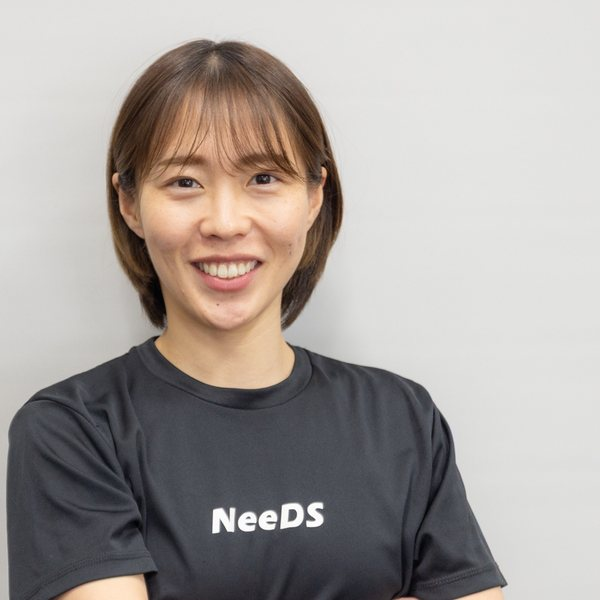
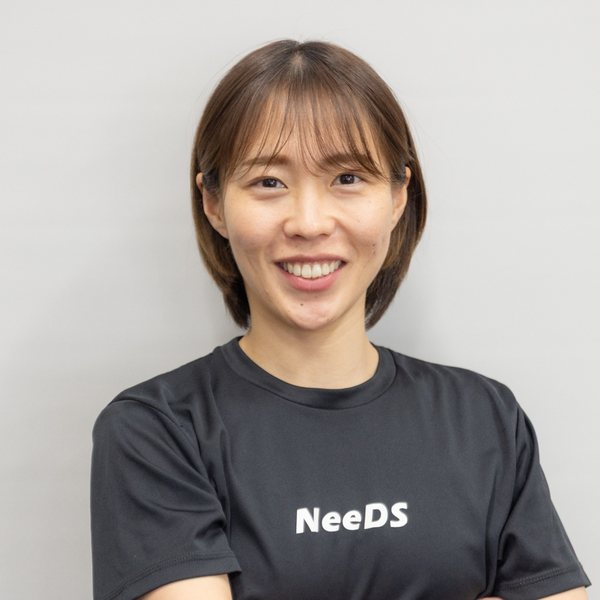
文言・写真・料金ストリップの調整
- 「安心してください」から「息が上がるような運動から始めることは
  ありません。」を削除（「初心者の方こそ大歓迎です。」は残す）
- 資格の箇条書きに「健康運動指導士」を追加（3つに）
- 「あなただけの」の後で改行し、「身体づくり計画をプレゼント！」を1行に
- トレーナー3名の写真を、顔が枠の中央に来るようトリミングし直し
  （成清トレーナーのずれを修正、塩崎トレーナーも微調整）
- 「通われています。」に黄色のハイライトを追加
- 料金ストリップ：スマホを2列2行にして、値を12.5→16px、
  「0円」を19→23px、ラベルを9.5→11pxに拡大
- ヒーローのバッジ：文言を「プロが／あなたの身体を／サポート」に短縮し、
  円を小さく（92px／PC112px）、文字を8→11px（PC 9.5→13px）に拡大
- ファーストビュー下：「神戸・六甲道｜」→「神戸ジム｜」

既存CSSブロックはバイト単位で同一を維持。

Claude-Session: https://claude.ai/code/session_01Re5nFwUBRuEXj6DTQGbL92

diff --git a/women-v2/index.html b/women-v2/index.html
@@ -587,10 +587,10 @@ body{ background:var(--paper-3); }
 .hero2-media{ position:relative; background:#e3ded6; }
 .hero2-photo{ width:100%; display:block; aspect-ratio:16/9; object-fit:cover; object-position:20% 50%; }
 .hero2-badge{
-  position:absolute; left:8px; top:8px; width:96px; height:96px; border-radius:50%;
+  position:absolute; left:8px; top:8px; width:92px; height:92px; border-radius:50%;
   background:linear-gradient(140deg, #57c4ef 0%, #1a80c4 100%);
   color:#fff; display:flex; align-items:center; justify-content:center;
-  text-align:center; padding:7px; font-size:8px; font-weight:500; line-height:1.55; letter-spacing:-.03em;
+  text-align:center; padding:6px; font-size:11px; font-weight:500; line-height:1.5; letter-spacing:-.02em;
   box-shadow:0 5px 16px rgba(10,44,66,.22);
 }
 .hero2-body{ padding:12px 16px 18px; }
@@ -623,7 +623,7 @@ body{ background:var(--paper-3); }
   .hero2-body{ order:1; display:flex; flex-direction:column; justify-content:center; padding:34px 34px 34px 22px; }
   .hero2-photo{ height:100%; aspect-ratio:auto; min-height:460px; }
   .hero2-title{ font-size:38px; }
-  .hero2-badge{ width:126px; height:126px; font-size:9.5px; padding:11px; left:16px; top:16px; line-height:1.65; }
+  .hero2-badge{ width:112px; height:112px; font-size:13px; padding:9px; left:16px; top:16px; line-height:1.6; }
 }
 @media (min-width:1200px){ .hero2-title{ font-size:43px; } }
 
@@ -773,21 +773,22 @@ body{ background:var(--paper-3); }
 }
 
 .fstrip{
-  display:grid; grid-template-columns:repeat(4,1fr); margin-top:16px;
+  display:grid; grid-template-columns:repeat(2,1fr); margin-top:16px;
   border-top:1px solid var(--line); border-left:1px solid var(--line);
 }
 .fstrip li{
-  padding:10px 4px; text-align:center; border-right:1px solid var(--line); border-bottom:1px solid var(--line);
+  padding:12px 6px; text-align:center; border-right:1px solid var(--line); border-bottom:1px solid var(--line);
   font-size:9px; line-height:1.45; color:var(--text-mute); letter-spacing:-.02em;
 }
-.fstrip .lb{ display:block; font-size:9.5px; color:var(--text-mute); letter-spacing:-.02em; margin-bottom:3px; }
-.fstrip b{ display:block; font-family:var(--ff-mn); font-size:12.5px; color:var(--ink); font-weight:500; letter-spacing:-.02em; }
+.fstrip .lb{ display:block; font-size:11px; color:var(--text-mute); letter-spacing:0; margin-bottom:4px; }
+.fstrip b{ display:block; font-family:var(--ff-mn); font-size:16px; color:var(--ink); font-weight:500; letter-spacing:-.02em; }
 .fstrip .free{ color:var(--cta-dark); }
-.fstrip .big{ font-size:19px; letter-spacing:.02em; }
+.fstrip .big{ font-size:23px; letter-spacing:.02em; }
+@media (min-width:560px){ .fstrip{ grid-template-columns:repeat(4,1fr); } }
 @media (min-width:768px){
   .fstrip li{ padding:14px 8px; letter-spacing:0; }
   .fstrip .lb{ font-size:11.5px; letter-spacing:0; margin-bottom:5px; }
-  .fstrip b{ font-size:16px; } .fstrip .big{ font-size:25px; }
+  .fstrip b{ font-size:19px; } .fstrip .big{ font-size:27px; }
 }
 
 /* ---- あなた専用プランに書かれること（1行） ---- */
@@ -970,11 +971,11 @@ height="0" width="0" style="display:none;visibility:hidden"></iframe></noscript>
       <img class="hero2-photo" src="images/hero.jpg"
            alt="トレーナーの補助を受けながらマットの上でトレーニングをする女性"
            width="1600" height="800" fetchpriority="high" decoding="async">
-      <p class="hero2-badge"><span><span class="nw">プロのトレーナーが</span><br><span class="nw">あなたの身体を</span><br><span class="nw">マンツーマンで</span><br><span class="nw">サポート</span></span></p>
+      <p class="hero2-badge"><span><span class="nw">プロが</span><br><span class="nw">あなたの身体を</span><br><span class="nw">サポート</span></span></p>
     </div>
 
     <div class="hero2-body rv">
-      <p class="hero2-eyebrow"><span class="nw">神戸・六甲道｜</span><span class="nw">40代からの</span><span class="nw">パーソナルトレーニングジム</span></p>
+      <p class="hero2-eyebrow"><span class="nw">神戸ジム｜</span><span class="nw">40代からの</span><span class="nw">パーソナルトレーニングジム</span></p>
       <h1 class="hero2-title">
         <span class="nw">好きなことを、</span><br>
         <em><span class="nw">これからも</span><span class="nw">楽しめる身体へ。</span></em>
@@ -1081,7 +1082,7 @@ height="0" width="0" style="display:none;visibility:hidden"></iframe></noscript>
         </div>
         <blockquote class="txt">
           <span class="nw">通われている方の大半は、</span><span class="nw">運動の習慣がないまま</span><span class="nw">40代・50代・60代を</span><span class="nw">迎えられた一般の方です。</span><br>
-          <span class="nw">息が上がるような運動から</span><span class="nw">始めることはありません。</span><span class="mk"><span class="nw">初心者の方こそ大歓迎です。</span></span>
+          <span class="mk"><span class="nw">初心者の方こそ大歓迎です。</span></span>
         </blockquote>
       </div>
 
@@ -1098,6 +1099,7 @@ height="0" width="0" style="display:none;visibility:hidden"></iframe></noscript>
         <h2 class="hd-title"><span class="nw">はじめての方こそ、</span><span class="accent"><span class="nw">安心して。</span></span></h2>
         <p class="hd-sub"><span class="nw">当施設には、</span></p>
         <ul class="qual2">
+          <li><b><span class="nw">健康運動指導士</span></b></li>
           <li><b><span class="nw">理学療法士</span></b></li>
           <li><b><span class="nw">アスレティックトレーナー</span></b></li>
         </ul>
@@ -1139,7 +1141,7 @@ height="0" width="0" style="display:none;visibility:hidden"></iframe></noscript>
     <div class="panel rv">
       <p class="trust-line"><span class="nw">一流にも</span><span class="nw">選ばれています。</span></p>
 
-      <p class="hd-sub" style="margin-top:12px;text-align:center;"><span class="nw">またNeeDSには、</span><br><span class="nw">ドクター・アスリート・</span><span class="nw">モデル・経営者の方も</span><span class="nw">通われています。</span></p>
+      <p class="hd-sub" style="margin-top:12px;text-align:center;"><span class="nw">またNeeDSには、</span><br><span class="nw">ドクター・アスリート・</span><span class="nw">モデル・経営者の方も</span><span class="mk"><span class="nw">通われています。</span></span></p>
 
       <div class="pro5">
         <figure><img src="images/ドクター.jpg" alt="NeeDSに通うドクター" width="560" height="560" loading="lazy" decoding="async">
@@ -1173,8 +1175,8 @@ height="0" width="0" style="display:none;visibility:hidden"></iframe></noscript>
       <div class="hd">
         <p class="hd-eyebrow hd-deco">Free Trial</p>
         <h2 class="hd-title">
-          <span class="nw">あなただけの</span><span class="accent"><span class="mk"><span class="nw">身体づくり計画</span></span></span><span class="nw">を</span><br>
-          <span class="accent"><span class="nw">プレゼント！</span></span>
+          <span class="nw">あなただけの</span><br>
+          <span class="accent"><span class="mk"><span class="nw">身体づくり計画</span></span></span><span class="nw">を</span><span class="accent"><span class="nw">プレゼント！</span></span>
         </h2>
         <p class="hd-sub">
           <span class="nw">「何を・どれくらい・</span><span class="nw">どう続けるか」が分かる、</span><span class="nw">あなた専用プランを</span><span class="nw">お伝えします。</span>
